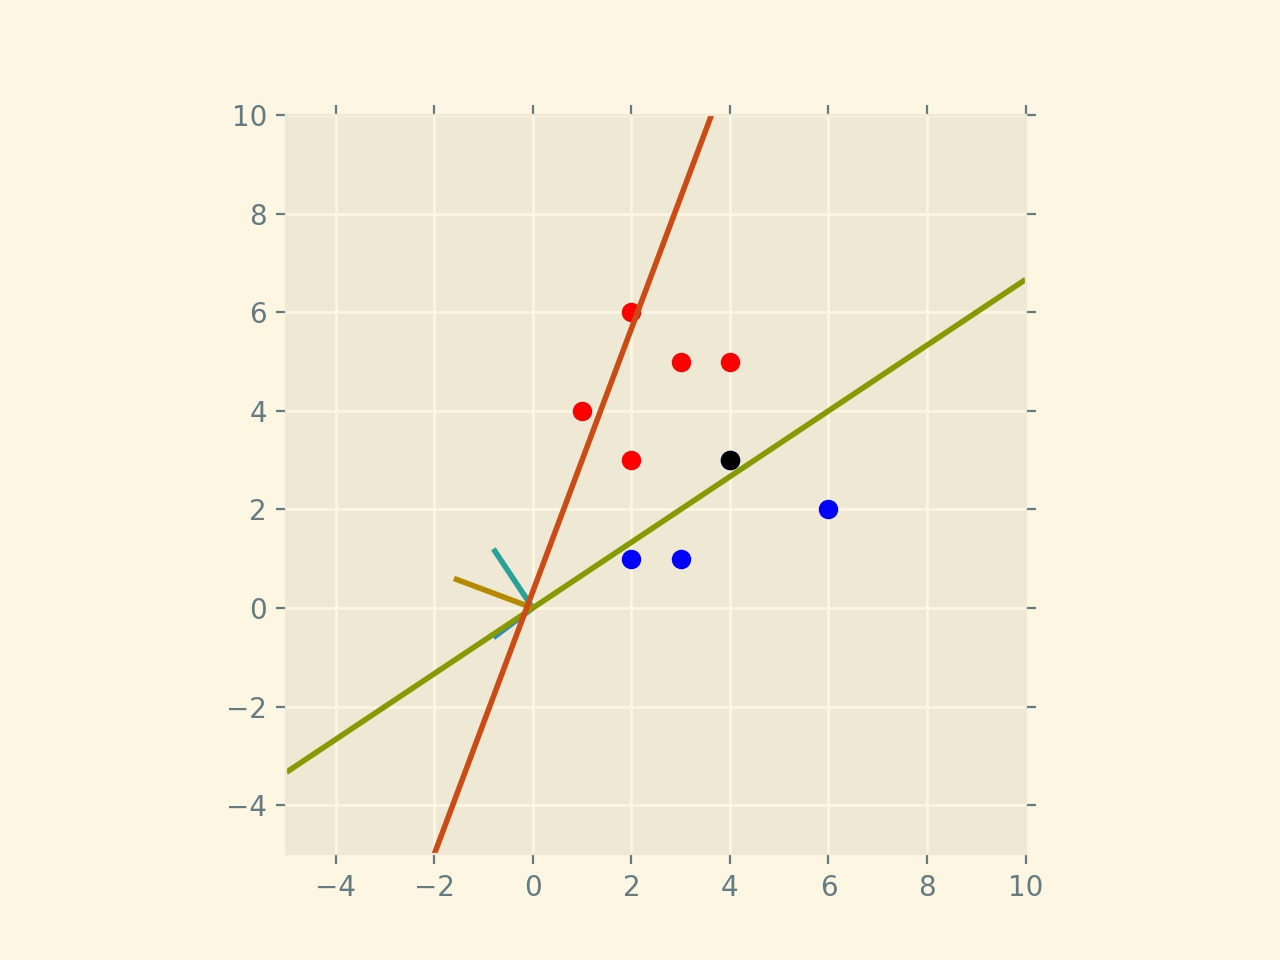
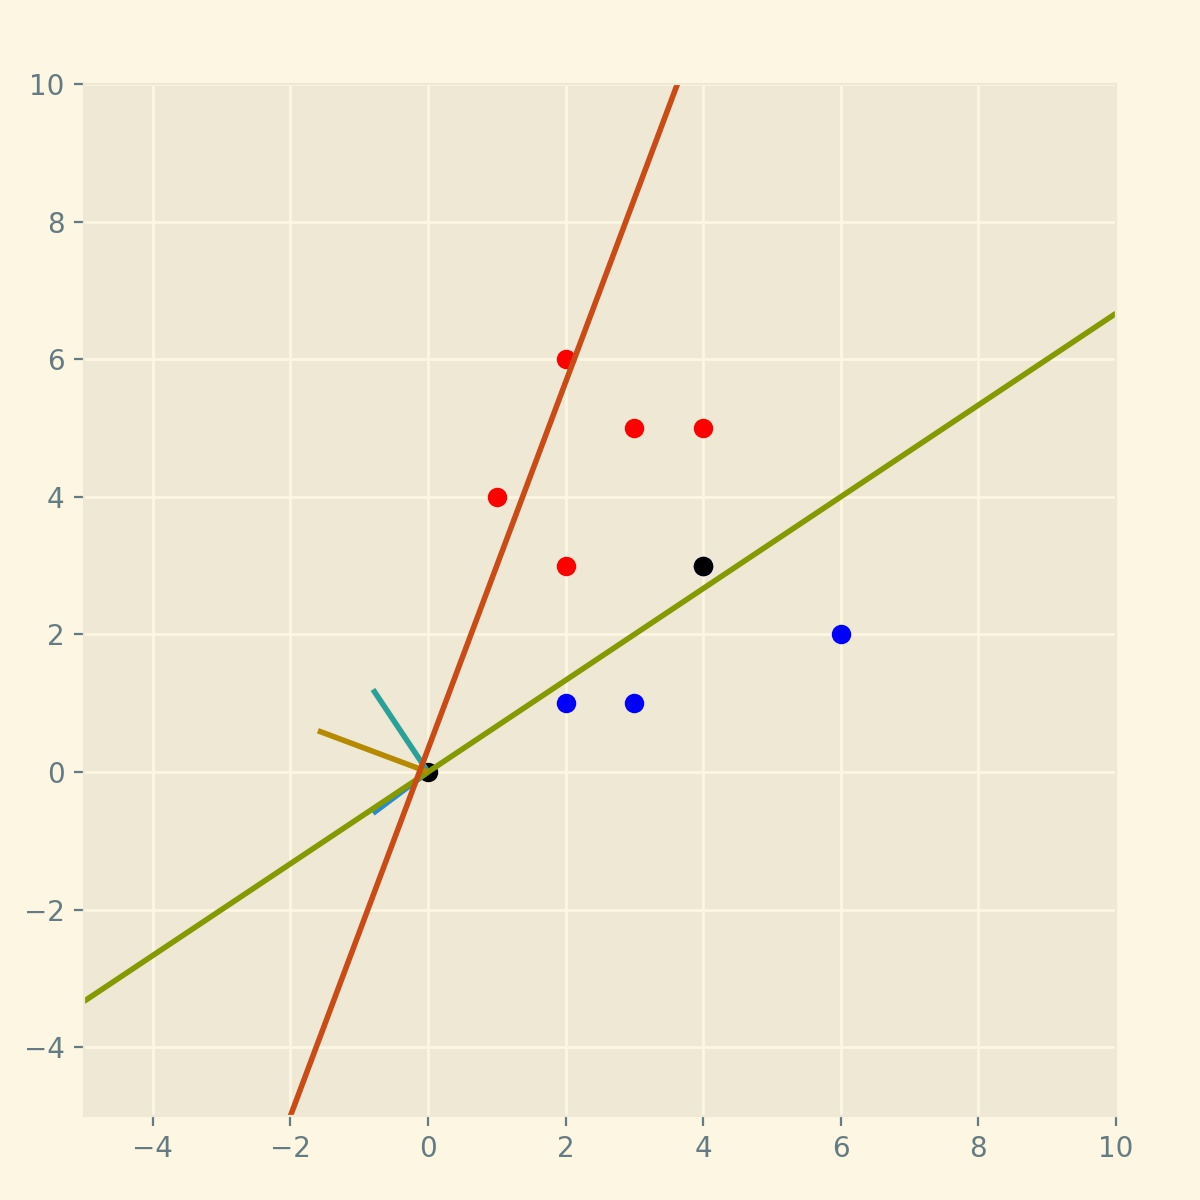
''

diff --git a/MachineLearning/2.Perceptron/code/perceptrom.py b/MachineLearning/2.Perceptron/code/perceptrom.py
@@ -1,8 +1,9 @@
 import numpy as np
 import matplotlib.pyplot as plt
-
+# plt.figure().set_size_inches(8, 8)
 class Perceptron(object):
     def __init__(self, train_data, lable):
+        self.data_pos = train_data
         self.train_data = np.array(train_data)
         self.lable = np.array(lable)
         self.length = len(train_data)
@@ -22,28 +23,33 @@ class Perceptron(object):
             flag = True
             for i, inpute_data in enumerate(self.train_data):
                 if self.lable[i] * self.predict(inpute_data) <= 0:
-                    vectorA = self.eta * self.lable[i] * inpute_data
+                    self.vectorA = self.eta * self.lable[i] * inpute_data
                     Y = lambda x,y: (- y[2] - (x) * y[0]) / y[1]
-                    plt.style.use('Solarize_Light2')
-                    plt.figure().add_subplot(111).set_aspect('equal')
                     plt.cla()
-                    scat()
-                    # plt.scatter(0, -self.weights[2] / self.weights[1], c='k')
-                    plt.ylim((-5, 10))
-                    plt.xlim((-5, 10))
-                    plt.plot([0, vectorA[0]], [Y(0, self.weights), Y(0, self.weights) + vectorA[1]])
-                    plt.plot([0, self.weights[0]], [Y(0, self.weights), Y(0, self.weights) + self.weights[1]])
+                    plt.figure().set_size_inches(6, 6)
+                    plt.style.use('Solarize_Light2')
 
-                    vectorB = self.weights + vectorA
-                    plt.plot([-5,10], [Y(-5, self.weights), Y(10, self.weights)])
-                    plt.plot([0, vectorB[0]], [Y(0, self.weights), Y(0, self.weights) + vectorB[1]])
-                    plt.plot([-5,10], [Y(-5, vectorB), Y(10, vectorB)])
-                    print(self.weights, self.eta * self.lable[i] * inpute_data, self.predict(inpute_data), self.lable[i])
+                    plt.subplots_adjust(top = 0.93, bottom = 0.07, right = 0.93, left = 0.07, hspace = 0, wspace = 0)
+                    plt.ylim((-5, 10))
+                    plt.xlim((-5, 10))               
+                    plt.scatter([x[0] for x in self.data_pos[:5]], [x[1] for x in self.data_pos[:5]], c='r')
+                    plt.scatter([x[0] for x in self.data_pos[5:]], [x[1] for x in self.data_pos[5:]], c='b')
                     plt.scatter(inpute_data[0], inpute_data[1], c='k')
-                    plt.savefig('img_{}_{}.jpg'.format(idx,i))
-                    self.weights += vectorA
+                    plt.scatter(0, -self.weights[2] / self.weights[1], c='k')
+                    plt.plot([0, self.vectorA[0]], [Y(0, self.weights), Y(0, self.weights) + self.vectorA[1]])
                     
+                    plt.plot([0, self.weights[0]], [Y(0, self.weights), Y(0, self.weights) + self.weights[1]])
+                    plt.plot([-5,10], [Y(-5, self.weights), Y(10, self.weights)])
+                    
+                    self.vectorB = self.weights + self.vectorA
+                    plt.plot([0, self.vectorB[0]], [Y(0, self.weights), Y(0, self.weights) + self.vectorB[1]])
+                    plt.plot([-5,10], [Y(-5, self.vectorB), Y(10, self.vectorB)])
+
+                    print(self.weights, self.eta * self.lable[i] * inpute_data, self.predict(inpute_data), self.lable[i])
+                    plt.savefig('img_{}_{}.jpg'.format(idx,i))
                     flag = False
+                    
+                    self.weights = self.vectorB
                     # plt.pause(0.5)
             if flag:
                 return self.weights
@@ -53,10 +59,6 @@ lable = [1, 1, 1, 1, 1, -1, -1, -1 ,-1]
 
 plt.ion()
 
-
-def scat():
-    plt.scatter([x[0] for x in train_data[:5]], [x[1] for x in train_data[:5]], c='r')
-    plt.scatter([x[0] for x in train_data[5:]], [x[1] for x in train_data[5:]], c='b')
 
 ptron = Perceptron(train_data, lable)
 ptron.train()

diff --git a/MachineLearning/1.LeastSquare/code/least_square.py b/MachineLearning/1.LeastSquare/code/least_square.py
@@ -1,7 +1,10 @@
-import matplotlib.pyplot as plt
 import numpy as np
-# %matplotlib inline
+import matplotlib.pyplot as plt
 
+plt.figure(figsize=(8,8), dpi=80)
+plt.subplots_adjust(top = 0.94, bottom = 0.06, right = 0.94, left = 0.06, hspace = 0.1, wspace = 0.1)
+
+# %matplotlib inline
 x = np.array([142.08, 177.30, 204.68, 242.88, 316.24, 332.69, 341.99, 389.29, 453.40])
 y = np.array([3.93,   5.96,   7.85,   9.82,   12.50,  15.79,  15.55,  16.39,  18.45])
 
@@ -61,4 +64,5 @@ plt.subplot(224)
 plt.plot(x, y, 'bo', label='noise')
 plt.plot(x, np.poly1d(beta)(x), label='fitted curve')
 
-plt.show()
+# plt.show()
+plt.savefig('least_square.png')

diff --git a/MachineLearning/3.K-NearestNeighbor/code/distance.py b/MachineLearning/3.K-NearestNeighbor/code/distance.py
@@ -4,8 +4,16 @@ import random
 def drawminkowski(sampling =10001, p = [0.1,0.5,1,2,3,10,100]):
  
     X = np.linspace(-1, 1, sampling)
- 
+    # plt.style.use('Solarize_Light2')
+    # plt.figure().add_subplot(111).set_aspect('equal')
     plt.figure(figsize=(8,8), dpi=80)
+    # plt.axis('off')
+    # plt.gca().xaxis.set_major_locator(plt.NullLocator())
+    # plt.gca().yaxis.set_major_locator(plt.NullLocator())
+    plt.subplots_adjust(top = 0.93, bottom = 0.07, right = 0.93, left = 0.07, hspace = 0, wspace = 0)
+    # plt.margins(10,10)
+    
+    
     plt.xlabel("X")
     plt.ylabel("Y")
     plt.xlim(-1,1)

diff --git a/MachineLearning/templet/fig.py b/MachineLearning/templet/fig.py
@@ -1,0 +1,10 @@
+import matplotlib.pyplot as plt
+
+class Figure():
+    def __init__(self):
+        self.fig, self.axes = plt.subplots()
+        self.fig.set_size_inches(8, 8)
+        self.fig.subplots_adjust(top = 0.94, bottom = 0.06, right = 0.94, left = 0.06, hspace = 0, wspace = 0)
+        plt.style.use('Solarize_Light2')
+    def tmp(self):    
+        return plt

diff --git a/test.py b/test.py
@@ -1,6 +1,1 @@
-
-def abb(t):
-    return 3 if t else 2
-
-
-print(abb(1))
+from MachineLearning.N1LeastSquare.code import least_square
